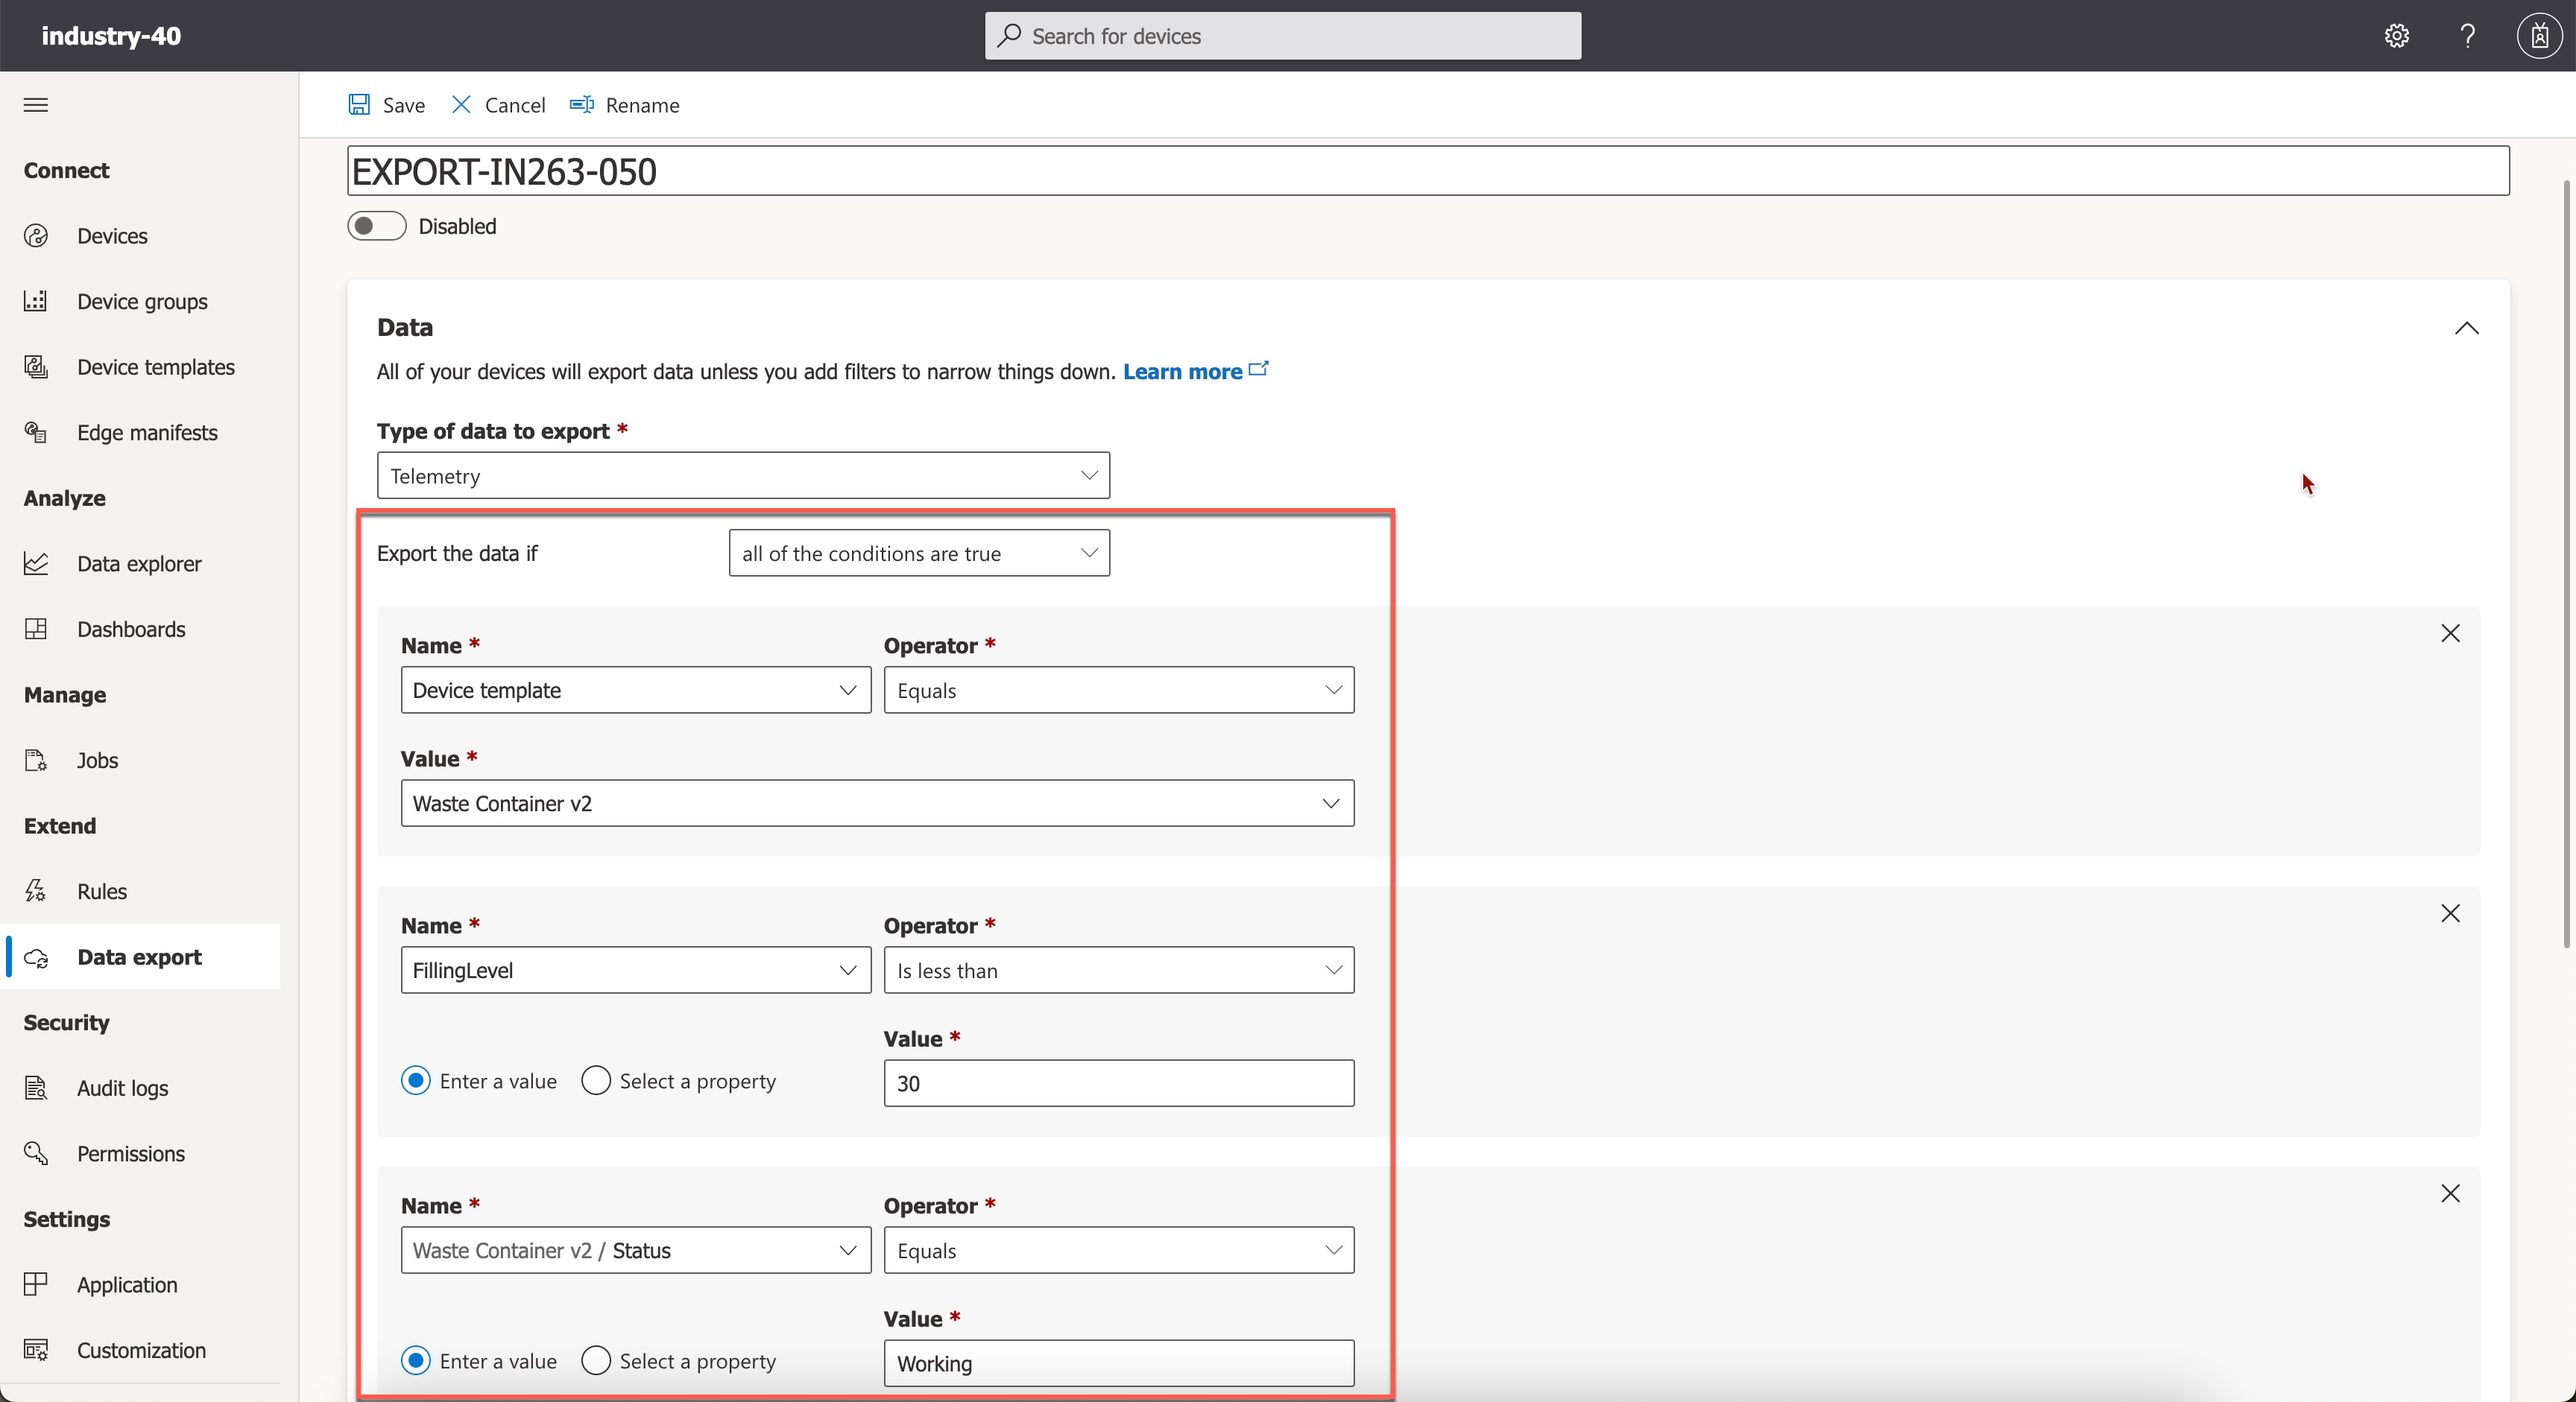
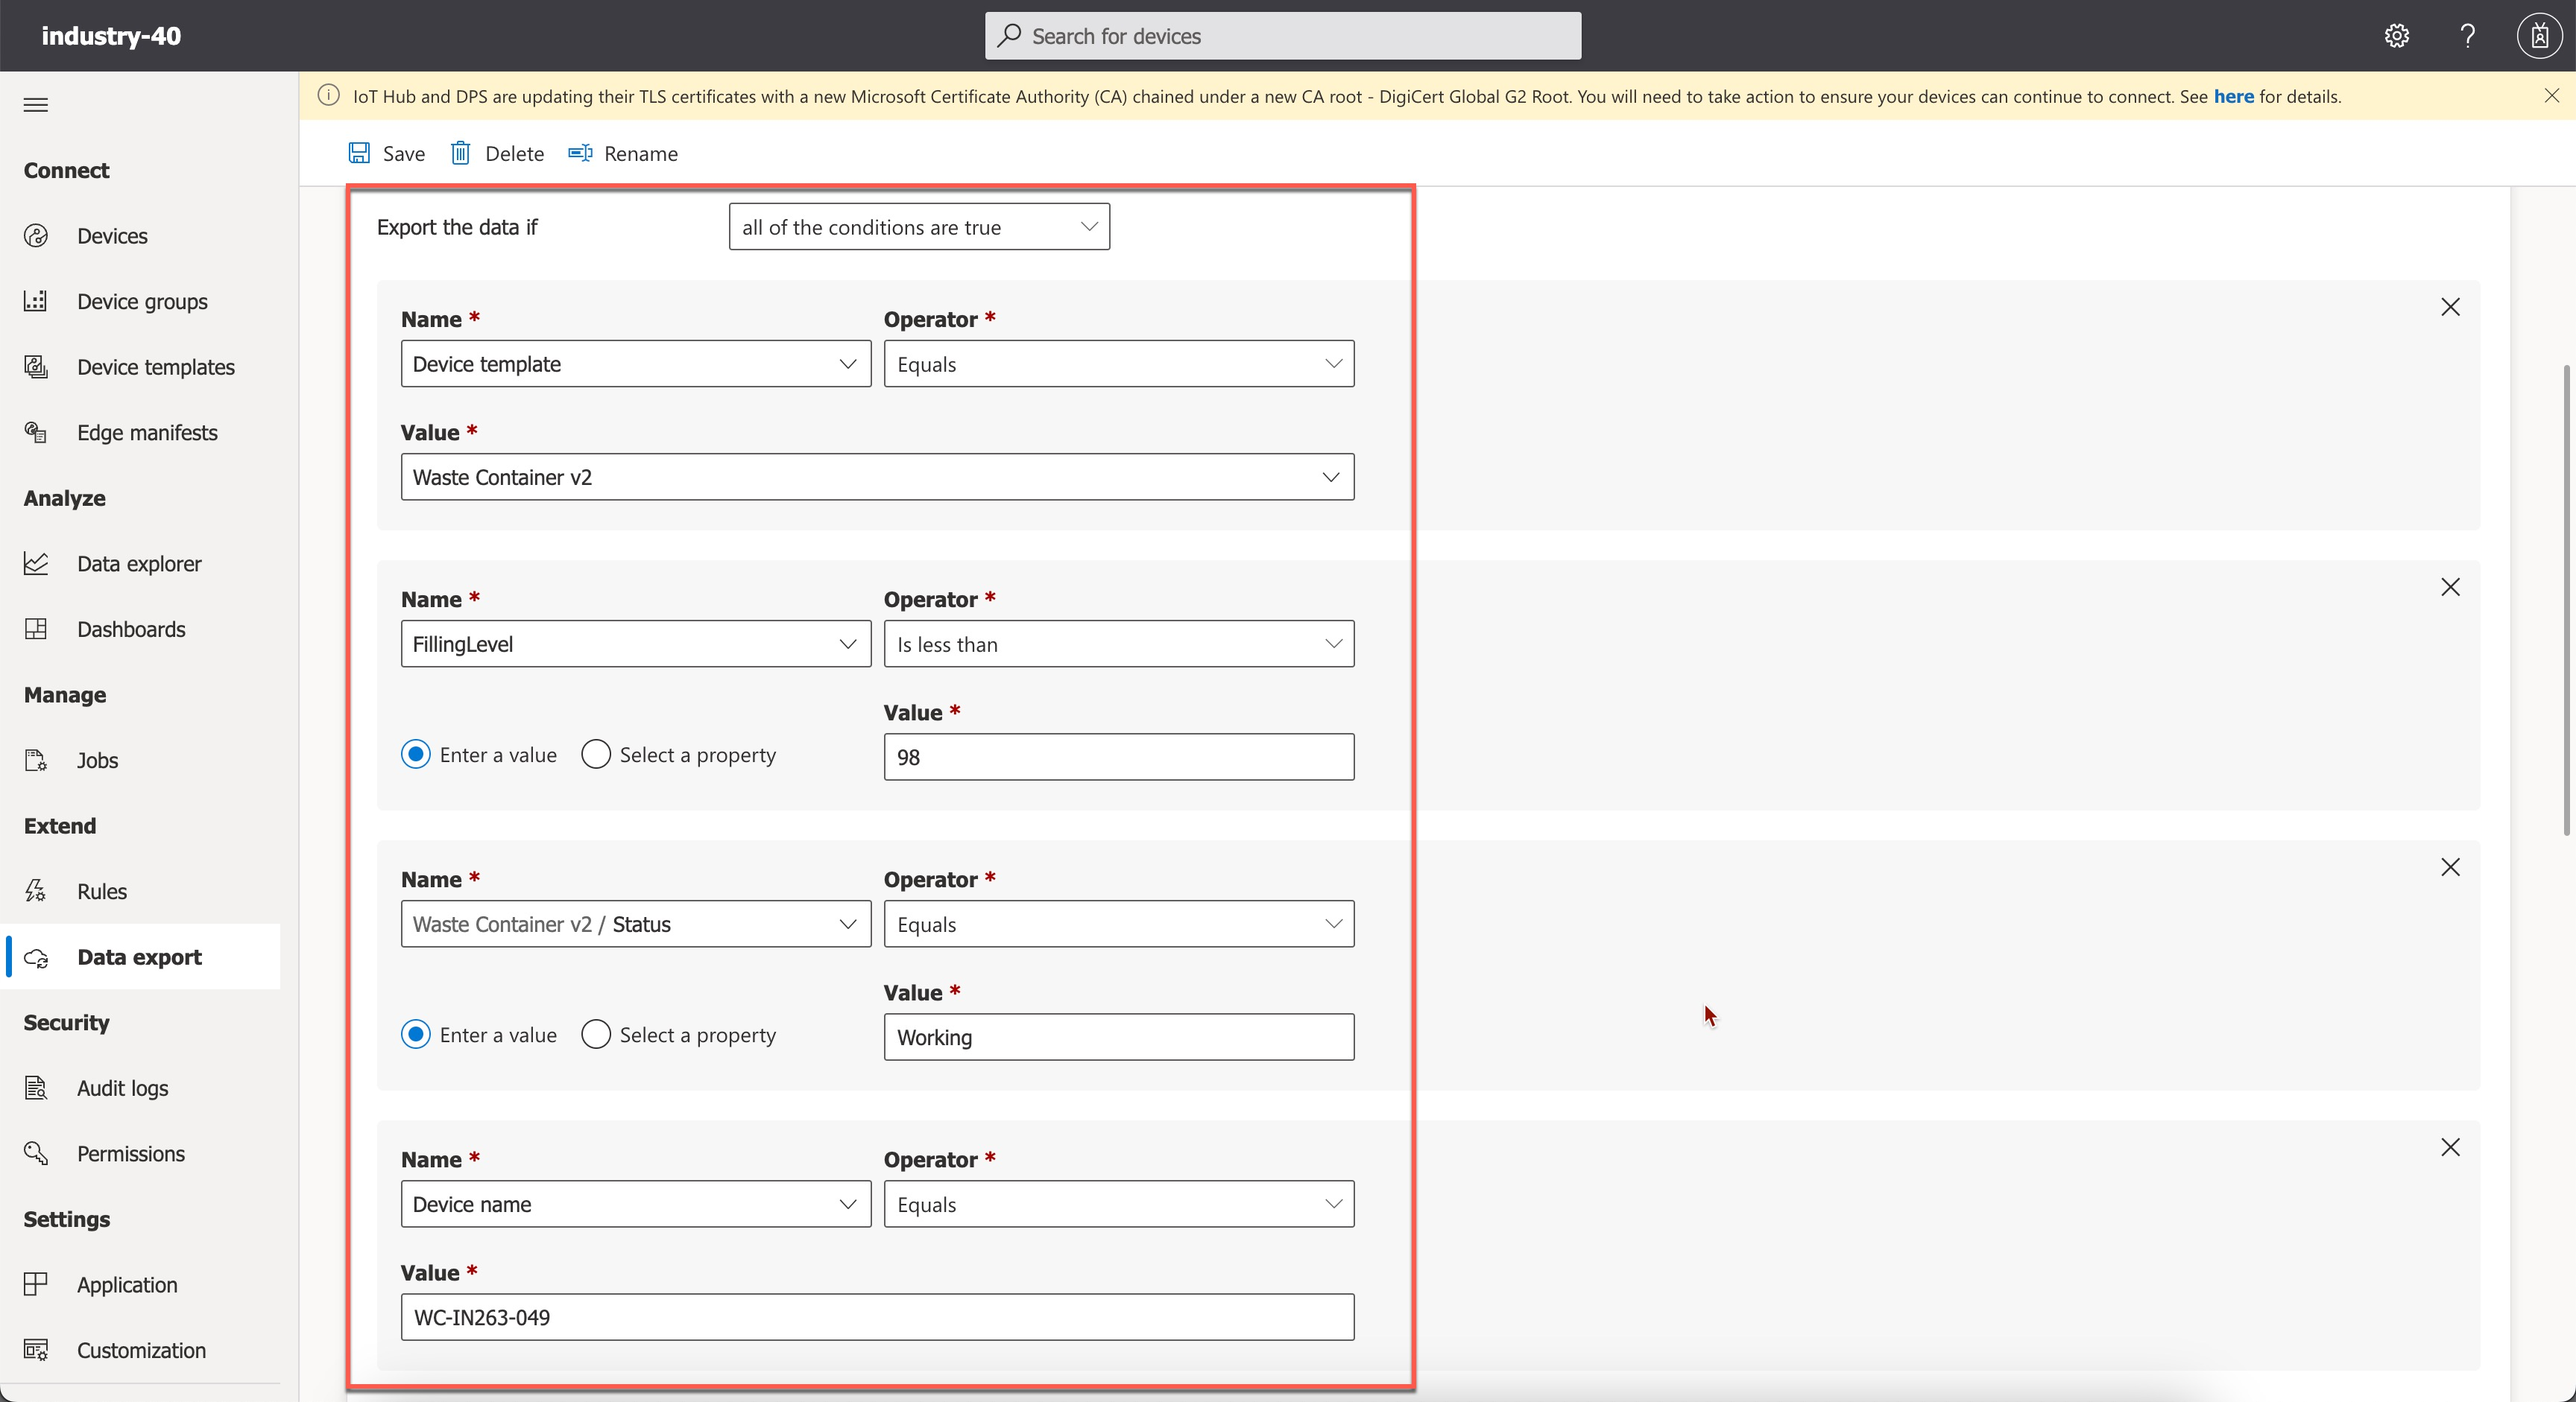
ex4 and minor changes

diff --git a/action-management/srv/utils/action.js b/action-management/srv/utils/action.js
@@ -18,7 +18,7 @@ function buildActionObject(path, dest, method, payload, contentType) {
     return actionObject;
 }
 
-function replaceTemplateData(eventData, actionResponses, actionTemplateData) {
+const replaceTemplateData = (eventData, actionResponses, actionTemplateData) => {
     let actionData = actionTemplateData.split('${{'), templatePath, parsedValue, subpathList, jsonData;
     if (actionData.length > 1) {
         for (let i = 0; i < actionData.length; i++) {
@@ -65,7 +65,7 @@ async function getDefaultAction(logHeadId) {
     return defaultActionDetails;
 }
 
-function getValueByJSONPath(data, jsonPath) {
+const getValueByJSONPath = (data, jsonPath)=> {
     let subpaths = jsonPath.split('.'), subpath, index, output = data;
     for (let i = 0; i < subpaths.length; i++) {
         subpath = subpaths[i];
@@ -91,21 +91,21 @@ async function getActionInformations(actionId, logHeadId) {
     return { mainActionDetails, relatedPreActions, relatedPostActions };
 }
 
-async function buildDataAndExecuteAction(eventMessage, actionResponses, reqActionDetails, destToken, httpsAgent, logHeadId) {
+const buildDataAndExecuteAction = async (eventMessage, actionResponses, reqActionDetails, destToken, httpsAgent, logHeadId) => {
     const actionCategoryId = reqActionDetails.categoryId == undefined ? reqActionDetails.ca_categoryId : reqActionDetails.categoryId;
     const actionCategoryDesc = reqActionDetails.categoryDescr == undefined ? reqActionDetails.ca_categoryDescr : reqActionDetails.categoryDescr;
 
-    const actionId = actionCategoryId === 'CHILD' ? reqActionDetails.ca_ID : reqActionDetails.ID;
-    const templatePayload = actionCategoryId === 'CHILD' ? reqActionDetails.ca_payload : reqActionDetails.payload;
-    const templatePath = actionCategoryId === 'CHILD' ? reqActionDetails.ca_path : reqActionDetails.path;
-    const dest = actionCategoryId === 'CHILD' ? reqActionDetails.ca_dest : reqActionDetails.dest;
-    const method = actionCategoryId === 'CHILD' ? reqActionDetails.ca_method : reqActionDetails.ma_method;
-    const contentType = actionCategoryId === 'CHILD' ? reqActionDetails.ca_contentType : reqActionDetails.ma_contentType;
-    const isTokenNeeded = actionCategoryId === 'CHILD' ? reqActionDetails.ca_isCsrfTokenNeeded : reqActionDetails.isCsrfTokenNeeded;
+    const actionId = actionCategoryId == "CHILD" ? reqActionDetails.ca_ID : reqActionDetails.ID;
+    const tPayload = actionCategoryId == "CHILD" ? reqActionDetails.ca_payload : reqActionDetails.payload;
+    const templatePath = actionCategoryId == "CHILD" ? reqActionDetails.ca_path : reqActionDetails.path;
+    const dest = actionCategoryId == "CHILD" ? reqActionDetails.ca_dest : reqActionDetails.dest;
+    const method = actionCategoryId == "CHILD" ? reqActionDetails.ca_method : reqActionDetails.ma_method;
+    const contentType = actionCategoryId == "CHILD" ? reqActionDetails.ca_contentType : reqActionDetails.ma_contentType;
+    const isTokenNeeded = actionCategoryId == "CHILD" ? reqActionDetails.ca_isCsrfTokenNeeded : reqActionDetails.isCsrfTokenNeeded;
     //replace template with dynamic data in payload and url path
-    let payload = templatePayload;
-    if(templatePayload && templatePayload !== null){
-        payload = replaceTemplateData(eventMessage, actionResponses, templatePayload);
+    let payload = tPayload;
+    if(tPayload && tPayload !== null){
+        payload = replaceTemplateData(eventMessage, actionResponses, tPayload);
     }
 
     await logUtil.createLogItem(logHeadId, 'INFO', `[${actionCategoryDesc}] For Action:${actionId}, Final Payload`, JSON.stringify(payload));

diff --git a/action-management/srv/server.js b/action-management/srv/server.js
@@ -1,3 +1,5 @@
+/* eslint-disable no-unused-vars */
+/* eslint-disable no-useless-catch */
 const proxy = require('@sap/cds-odata-v2-adapter-proxy')
 const cds = require('@sap/cds')
 const https = require('https');

diff --git a/exercises/ex4/README.md b/exercises/ex4/README.md
@@ -88,9 +88,9 @@ In this section, you will configure the different business actions that needs to
     "Vocabulary": [
         {
         "EventInfo": {
-            "SourceSystem": "${{event.data.enrichments.System}}",
-            "DeviceTemple": "${{event.data.enrichments.DeviceTemplate}}",
-            "DeviceLocation": "${{event.data.enrichments.Location}}"
+            "SourceSystem": "${{event.enrichments.System}}",
+            "DeviceType": "${{event.enrichments.DeviceTemplate}}",
+            "DeviceLocation": "${{event.enrichments.Location}}"
         }
         }
     ]
@@ -121,7 +121,7 @@ In this section, you will configure the different business actions that needs to
     > - Destination: **ACTION_AZURE_IOT**     
     > - Content-Type: **application/json**    
     > - Method: **PATCH**   
-    > - Relative Path: **${{event.data.deviceId}}/properties?api-version=2022-07-31**    
+    > - Relative Path: **${{event.deviceId}}/properties?api-version=2022-07-31**    
     > - Payload: 
 
     Your configuration should look like this:
@@ -155,7 +155,7 @@ In this section, you will configure the different business actions that needs to
     {
         "PurchaseRequisition": "",
         "PurchaseRequisitionType": "NB",
-        "PurReqnDescription": "Refill Container ${{event.data.enrichments.DeviceName}}",
+        "PurReqnDescription": "Refill Container ${{event.enrichments.DeviceName}}",
         "SourceDetermination": false,
         "PurReqnDoOnlyValidation": false,
         "to_PurchaseReqnItem": {
@@ -231,7 +231,7 @@ In this section, you will configure the different business actions that needs to
     ```json
     {
         "Status": "Under Maintenance",
-        "PRId": "${{main.<MainActionId>.d.results.PurchaseRequisition}}"
+        "PRId": "${{main.<MainActionId>.d.PurchaseRequisition}}"
     }
     ```   
 

diff --git a/exercises/ex6/README.md b/exercises/ex6/README.md
@@ -110,23 +110,24 @@ During this step, you'll initially establish a Destination, outlining the connec
     <img src="./images/data-export03.jpg" width="90%" height="90%" />
 
 5. In the **Export the data if** dropdown menu, select **all of the conditions are true**. Add following filters as shown in following image:
-    - Device Template = Waste Container v2
-    - Filling Level LT 30
-    - Waste Container / Status = Working    
+    - Device Template = **Waste Container v2**
+    - Filling Level **LT 30**
+    - Waste Container / Status = **Working**  
+    - Device name = **WC-IN263-XXX**, replace XXX with the id from your email (device name that you created in step 2 of Part 4)
     <img src="./images/data-export04.jpg" width="90%" height="90%" />
 
     <!-- ![plot](./images/dataexport-new.png) -->
 
 6.  In the **Enrichments** section, choose **+Custom String** and enter the below key value pairs as shown below.
-    - Application: Industry-40
-    - DeviceName: Azure     
+    - Application: **Industry-40**
+    - DeviceName: **Azure**     
     <img src="./images/data-export05.jpg" width="90%" height="90%" />
 
 7. In the **Enrichments** section, choose **+Property** and enter the below key value pairs as shown below.
-    - ContainerID: Waste Container v2 / Container ID
-    - System: Device name
-    - DeviceTemplate: Device template name
-    - Location: Waste Container v2 / Location Id     
+    - ContainerID: **Waste Container v2 / Container ID**
+    - DeviceName: **Device name**
+    - DeviceTemplate: **Device template name**
+    - Location: **Waste Container v2 / Location Id**     
     <img src="./images/data-export06.jpg" width="90%" height="90%" />
 
 8. In the **Destinations** section, choose **+Destination** 
